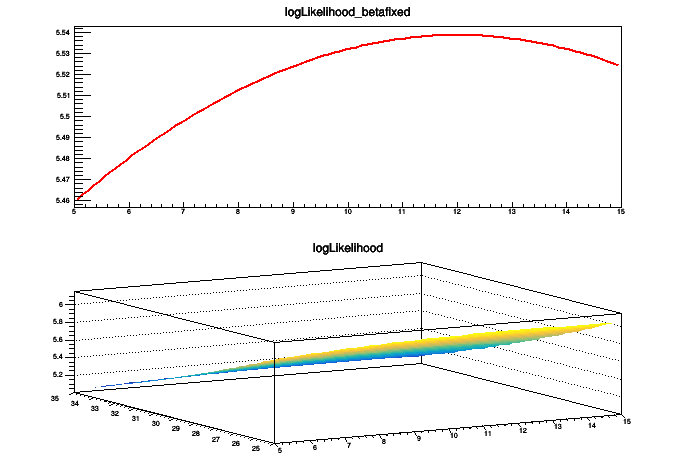
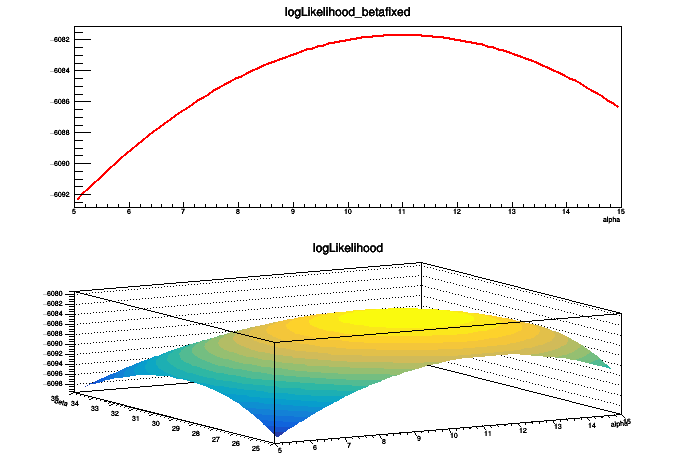
Add files via upload
fixed program

diff --git a/Sheets/Sheet_5/exercise5_1.C b/Sheets/Sheet_5/exercise5_1.C
@@ -15,7 +15,7 @@ Double_t LogLikelihood_betafixed(Double_t *val, Double_t *par) {
 	
 	double lL = 0; 
 	for (int i=0; i<Ndata; i++) {
-		lL += (1/TMath::Pi()) * beta / (pow((par[i]-alpha),2) + pow(beta, 2));
+		lL += log((1/TMath::Pi()) * beta / (pow((par[i]-alpha),2) + pow(beta, 2)));
 	}
 	return lL;
 };
@@ -27,7 +27,7 @@ Double_t LogLikelihood(Double_t *val, Double_t *par) {
 	
 	double lL = 0; 
 	for (int i=0; i<Ndata; i++) {
-		lL += (1/TMath::Pi()) * beta / (pow((par[i]-alpha),2) + pow(beta, 2));
+		lL += log((1/TMath::Pi()) * beta / (pow((par[i]-alpha),2) + pow(beta, 2)));
 	}
 	return lL;
 };
@@ -59,6 +59,8 @@ void exercise5_1() {
 	c1->cd(1);
 	logLikelihood_betafixed->Draw();
 	alpha_est_1 = logLikelihood_betafixed->GetMaximumX();
+   logLikelihood_betafixed->GetHistogram()->GetXaxis()->SetTitle("alpha");
+   c1->Modified();
 	cout << "part a)" << endl;
 	cout << "  estimated alpha: " << alpha_est_1 << endl << endl;
 	
@@ -66,6 +68,8 @@ void exercise5_1() {
 	logLikelihood->Draw("SURF2");
 	//logLikelihood->Draw("CONT1 SAME");
 	logLikelihood->GetMaximumXY(alpha_est_2, beta_est);
+	logLikelihood->GetHistogram()->GetXaxis()->SetTitle("alpha");
+	logLikelihood->GetHistogram()->GetYaxis()->SetTitle("beta");
 	cout << "part b)" << endl;
 	cout << "  estimated alpha: " << alpha_est_2 << endl;
 	cout << "  estimated beta: " << beta_est << endl;
